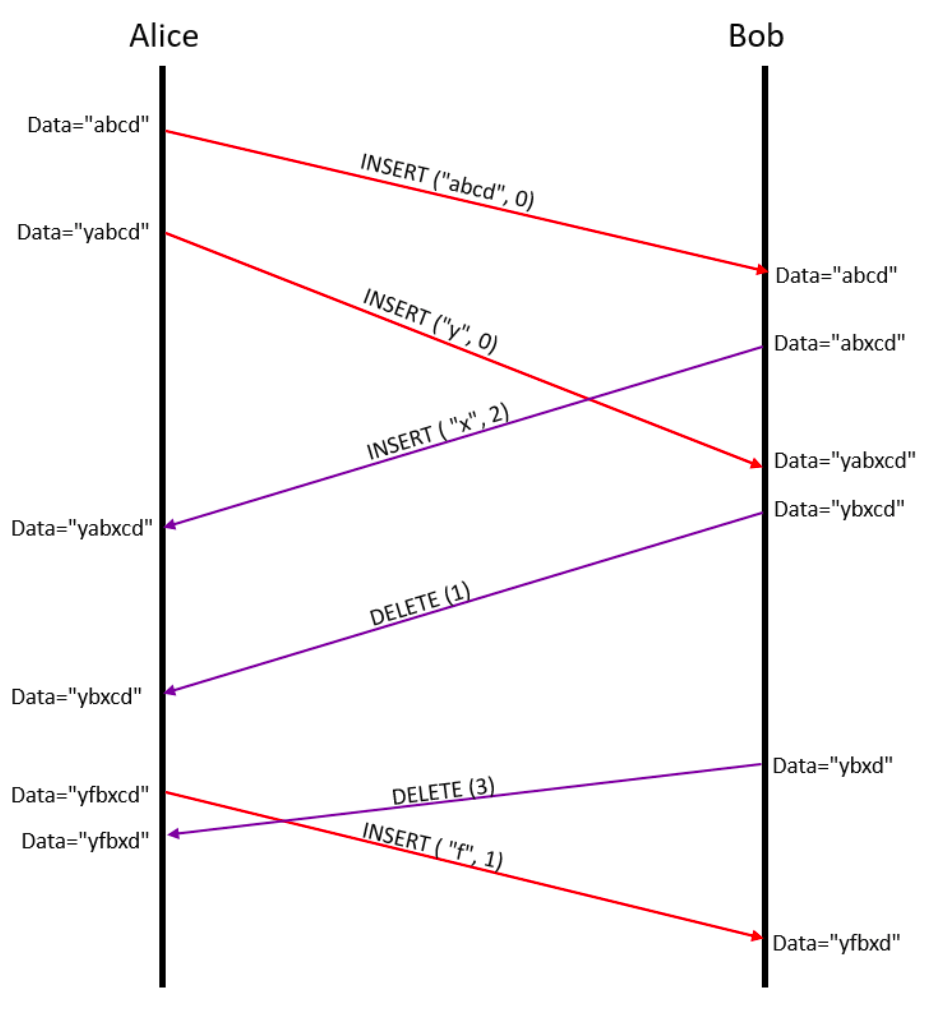
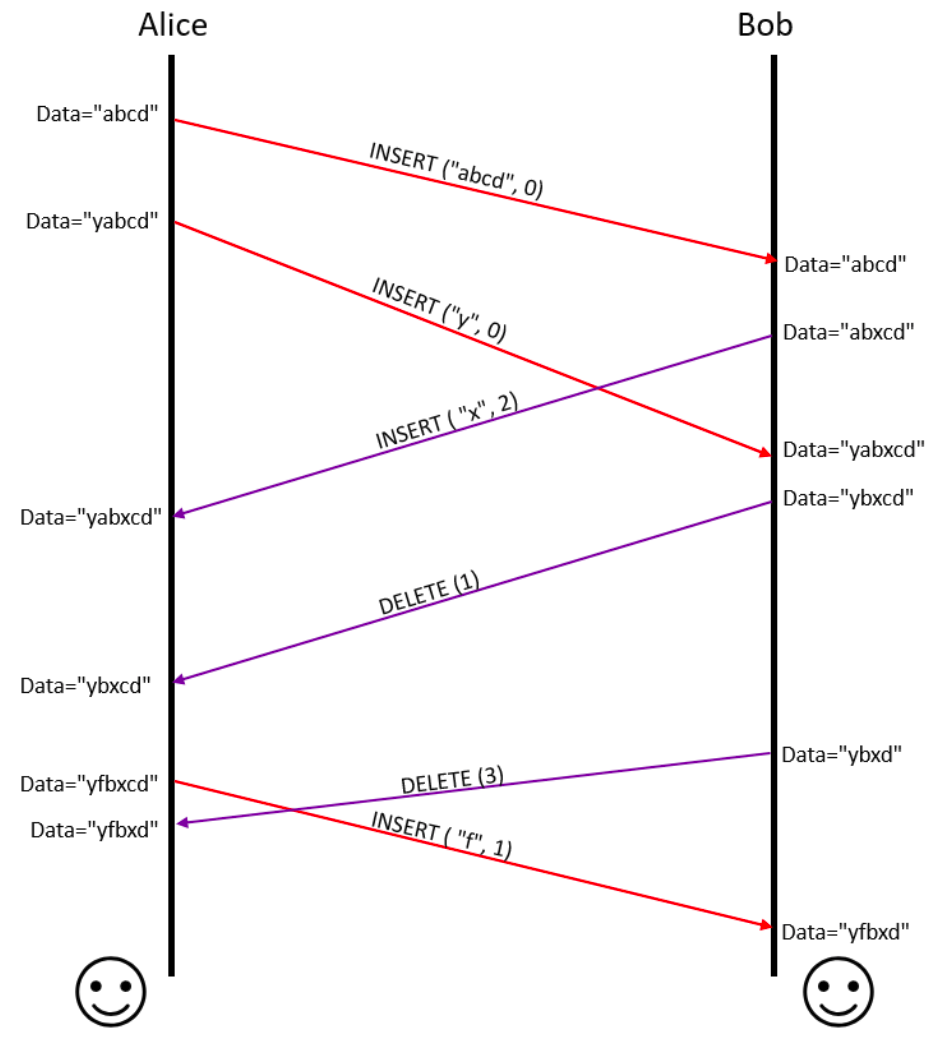
Adding diagrams instead of explanation.

Changed region(s): [[0.0, 0.0, 0.9989, 1.0]]

diff --git a/_drafts/Abhishek_Blog1_Draft.md b/_drafts/Abhishek_Blog1_Draft.md
@@ -18,17 +18,17 @@ Operational Transformation was popularized by Google in its [Google Wave project
 
 The Google Wave project itself was based on the [Jupiter collaboration system](https://dl.acm.org/citation.cfm?doid=215585.215706). Jupiter collaboration system was aimed towards simplifying the algorithm created by Ellis and Gibbs by creating a centralized architecture as opposed to the free range collaborative system that Ellis and Gibbs drew out in their paper. In our discussion we deal with decentralized idea as presented in the paper by Ellis and Gibbs. To be specific, we look at the Distributed Operational Transformation (dOPT) algorithm and its use in the GROVE editor in the [1989 paper](http://doi.acm.org/10.1145/67544.66963).
 
-To describe the problem in in its most basic form, let’s say we have a document which is being edited by two users **Alice** and **Bob**. Each has a local copy of the document and a common data in the document. Let’s say the data string in the document is “*ABCDEFGH*”. Let’s call this initial string `T`, where `T = “ABCDEFGH”`. Users **Alice** and **Bob** have their own copies of the text `Ta` and `Tb` respectively. **Alice** makes a change to `Ta` where it now reads: `Ta=“ABCMDEFGH”`. This is done by the user **Alice** performing an `insert` operation at index  `3` of character `"M"` on the string `Ta`. Let's call this operation `OPa1 = Ta.insert(3,'M')`. Concurrently, **Bob** deletes a character in his copy of the text. Keeping similar notation, the operation **Bob** performs is `OPb1 = Tb.delete(2)` which results in the text `Tb = “ABDEFGH”`. Now in order to synchronize copies of the text from users **Alice** and **Bob**, the users share the operations that were performed by them on the text.
+To describe the problem in in its most basic form, let’s say we have a document which is being edited by two users **Alice** and **Bob**. Alice creates a local copy of the document and shares it with Bob. She then starts editing the document and these changes are shared with Bob as shown in the figure below.
 
-But merely sharing operations performed by both users and applying those operations at their ends is not sufficient for the text to by synchronized. If **Alice** received `OPb1` and decided to delete index `2` at its end, the text would read `ABMDEFGH`. If **Bob** received `OPa1` and inserted `"M"` at `3`, the text `Tb` would read `ABDMEFGH`. Clearly, this is a problem. The solution is arrived at when both **Alice** and **B** take cognisance of the operations performed at their end and not just apply new operations on the results of previous operations.
+<p align="center">
+<img src="Abhishek_test_operations_inconsistent.png" height="600" width="450"></img>
+</p>
 
-The key insight from the above discussion is this: in order to correctly apply the the operations that happened on **Bob** to data on **Alice** there should be some function which can transform indices received from **Bob** to the exact index of data on **Alice** where the operation should be applied. Next, we will discuss a rudimentary implementation of such a transformation.
+In the figure below any changes that either Alice or Bob make to their copy of the document is sent over to the other as an operation message. The problem is that neither user applies the operation to their local data with any consideration of how the other user applied the operation at their end. This leads to data inconsistencies. Some mechanism should be devised for Alice to correctly apply the the operations that Bob did on his data and vice-versa. A function is required which can transform the operation and indices received from Bob to the exact index of data on Alice's end. Next, we will discuss a rudimentary implementation of such a transformation.
 
-## An example of collaborative editing using dOPT
+## An example of collaborative editing using distributed operational transformation (dOPT)
 
-_NOTE_: A word on terminology before we begin the discussion. The word 'local' is used below to denote where a program is executing: the 'local' machine or system. The word 'remote' is used to denote a remote machine where a 'remote' user may be working and making changes to their own copy of the data.
-
-The following implementation of Operational Transformation is available [here](https://bitbucket.org/alfredd/collabalgos). The implementation follows the algorithm roughly as stated in the [1989 paper by Ellis and Gibbs](http://doi.acm.org/10.1145/67544.66963).
+The following implementation of dOPT is available [here](https://bitbucket.org/alfredd/collabalgos). The implementation follows the algorithm roughly as stated in the [1989 paper by Ellis and Gibbs](http://doi.acm.org/10.1145/67544.66963).
 
 What follows is an explanation of the implementation of Operational Transformation via a few test scenarios. Each test case shown below adds an operation performed either locally on the data or by another user on their own copy of the data and sent over as part of the synchronization process. At the end of each synchronization step the data must be the same data on both local and remote users' ends. Each test case moves the editing process forward via a set of operations that are performed on the data. Operations performed at both user ends are shown in the following figure:
 
@@ -36,17 +36,6 @@ What follows is an explanation of the implementation of Operational Transformati
 <img src="Abhishek_test_operations.png" height="600" width="450"></img>
 </p>
 
- The following operations are performed on the data:
-
-1. Initially the data is `abcd` inserted locally and is sent over to the remote machine. The idea is that we start with a system where both local and remote users have the same data and are in a consistent state.
-2. A `y` is inserted next locally and the data becomes `yabcd`. This information is then sent to the remote server as well.
-3. Concurrently the remote user adds `x` at index `2` to it's copy which is `abcd` and sends this operation to be synced with the local copy. The local data is modified to `yabxcd`.
-4. At this point the remote user should also have seen the insert from step `2` and updated its copy of the data. So both user and remote data should be `yabxcd`.
-5. The remote user then deletes the character at index `1` from its copy of the data which was `yabxcd`. The data becomes `ybxcd`. When this operation is received by the local system, data is updated to `ybxcd`.
-6. The local user then inserts `f` at index `1` to its local copy of data which is `ybxcd`. The data is now `yfbxcd`.
-7. The remote user concurrently deletes the character at index `3` of its local data which is `ybxcd`. The remote user's data becomes `ybxd`. This operation is received by the local system which deletes the character `c` from its index `4` with the data finally becoming `yfbxd`.
-8. The remote system will also update its data when it receives the insert operation of character `f` at index `1` from the local system. When the operation is applied by the remote system its data will be modified from `ybxd` to `yfbxd`. Thus both local and remote users will converge to the same state.
-9. It should be noted the index used in the remote operation need not always correspond to the same index in the local data. This is where Operational Transformation is used. The main idea behind Operational Transformation is, therefore, to understand in what cases transformation will have to be applied to convert indices to correct values.
 
 The important thing to note here is that each modification to the data is performed as a series of operations. There are a few assumptions made in this implementation which are important to point out:
 
